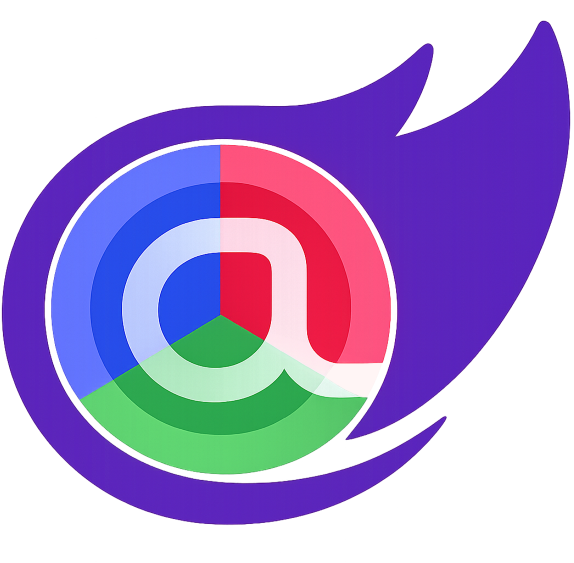
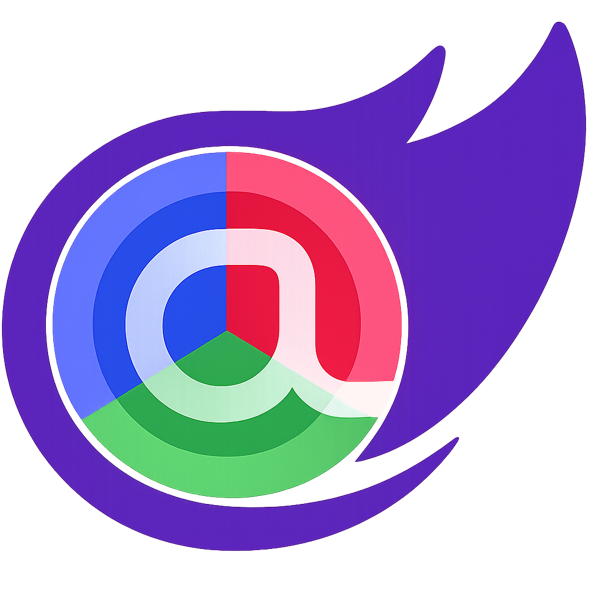
PAGES: upated main page and roadmap

diff --git a/WebPages/wwwroot/pages/roadmap.html b/WebPages/wwwroot/pages/roadmap.html
@@ -75,26 +75,27 @@
                 <div class="m-2"><span class="bi-asterisk text-primary"></span> Request</div>
             </div>
             <hr />
-            <h5 class="text-center">Short term</h5>
+            <h5 class="text-center">Next release 3.0</h5>
             <ul>
-                <li><span class="bi-plus-lg text-success"></span> Add tornado chart</li>
-                <li><span class="bi-plus-lg text-success"></span> Add waterfall chart</li>
-                <li><small class="bi-asterisk text-primary"></small> Add customizable tooltip</li>
+                <li><small class="bi-asterisk text-primary"></small> Website redesign for live demos</li>
+                <li><span class="bi-plus-lg text-success"></span> Add scatter chart</li>
+                <li><span class="bi-plus-lg text-success"></span> Add stepline chart</li>
+                <li><span class="bi-recycle text-success"></span> Refactoring linecharts</li>
+                <li><span class="bi-exclamation-triangle text-warning"></span> Reorganize namespaces</li>
+                <li><span class="bi-exclamation-triangle text-warning"></span> Remove DrawMode and Positioning enums</li>
+                <li><span class="bi-exclamation-triangle text-warning"></span> Remove BlazorGraphs.Enums namespace</li>
+                <li><span class="bi-exclamation-triangle text-warning"></span> Change color properties to use Color type instead of KnownColor enum</li>
             </ul>
             <hr />
             <h5 class="text-center">Mid term</h5>
             <ul>
                 <li><small class="bi-asterisk text-primary"></small> Add gantt chart</li>
+                <li><small class="bi-asterisk text-primary"></small> Add customizable tooltip</li>
+                <li><span class="bi-plus-lg text-success"></span> Add tornado chart</li>
+                <li><span class="bi-plus-lg text-success"></span> Add waterfall chart</li>
                 <li><span class="bi-plus-lg text-success"></span> Add area chart</li>
-                <li><span class="bi-plus-lg text-success"></span> Add scatter chart</li>
-                <li><span class="bi-plus-lg text-success"></span> Add stepline chart</li>
                 <li><span class="bi-plus-lg text-success"></span> Add bubble chart</li>
                 <li><span class="bi-plus-lg text-success"></span> Add column chart (like barchart but each bar has it's own color)</li>
-                <li><span class="bi-recycle text-success"></span> Refactoring linecharts</li>
-                <li><span class="bi-exclamation-triangle text-warning"></span> Remove DrawMode and Positioning enums</li>
-                <li><span class="bi-exclamation-triangle text-warning"></span> Remove BlazorGraphs.Enums namespace</li>
-                <li><span class="bi-exclamation-triangle text-warning"></span> Reorganize namespaces</li>
-                <li><span class="bi-exclamation-triangle text-warning"></span> Change color properties to use Color type instead of KnownColor enum</li>
             </ul>
             <hr />
             <h5 class="text-center">Long term</h5>

diff --git a/WebPages/wwwroot/index.html b/WebPages/wwwroot/index.html
@@ -83,15 +83,15 @@
                                     <td class="w-100 text-nowrap"><h6>Main features</h6></td>
                                 </tr>
                                 <tr>
-                                    <td class="text-nowrap"><span class="bi-fire text-danger"></span> Pure blazor rendering</td>
+                                    <td class="text-nowrap"><span class="bi-fire text-danger"></span> Pure Blazor rendering</td>
                                 </tr>
                                 <tr>
                                     <td></td>
-                                    <td class="text-nowrap"><span class="bi-ban"></span> No JS interop</td>
+                                    <td class="text-nowrap"><span class="bi-code-slash"></span> 100% native SVG</td>
                                 </tr>
                                 <tr>
                                     <td></td>
-                                    <td class="text-nowrap"><span class="bi-ban"></span> Zero external dependencies</td>
+                                    <td class="text-nowrap"><span class="bi-ban"></span> No JS Interop</td>
                                 </tr>
                             </table>
                         </div>
@@ -130,7 +130,7 @@
                                     <td></td>
                                 </tr>
                                 <tr>
-                                    <td class="text-nowrap"><span class="bi-star-fill text-warning"></span> 24 stars</td>
+                                    <td class="text-nowrap"><span class="bi-star-fill text-warning"></span> 28 stars</td>
                                     <td></td>
                                 </tr>
                                 <tr>
@@ -157,7 +157,7 @@
                                     <td></td>
                                 </tr>
                                 <tr>
-                                    <td class="text-nowrap"><span class="bi-arrow-down-circle-fill text-secondary"></span> 2.5K downloads</td>
+                                    <td class="text-nowrap"><span class="bi-arrow-down-circle-fill text-secondary"></span> 2.6K downloads</td>
                                     <td></td>
                                 </tr>
                                 <tr>